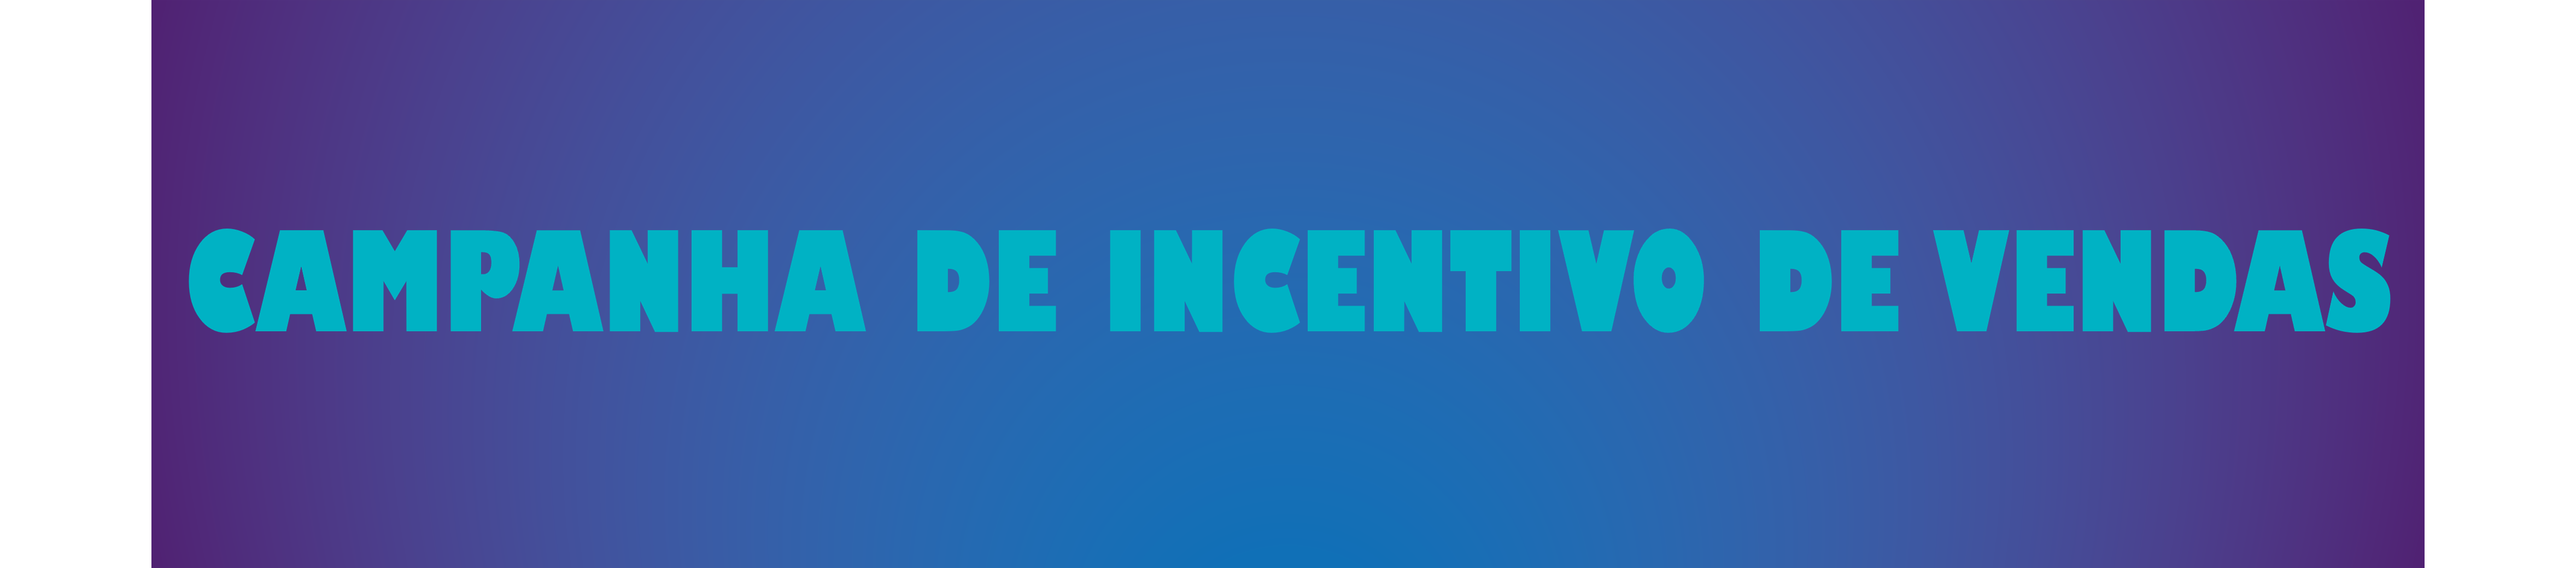
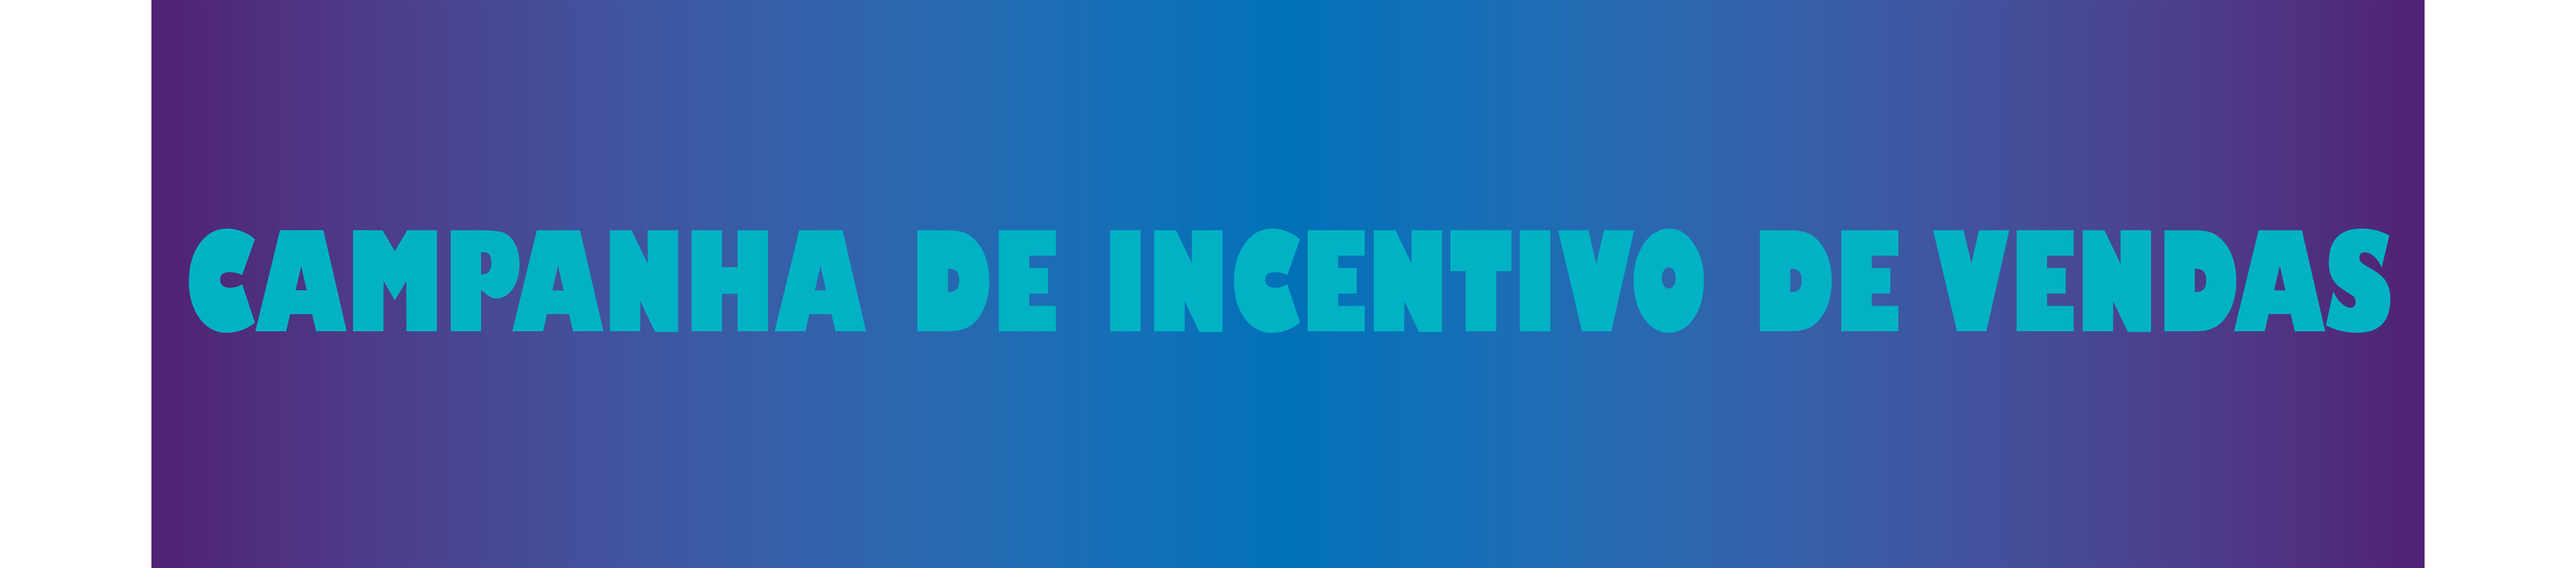
update

Changed region(s): [[0.3744, 0.0, 0.6239, 0.77]]

diff --git a/app.py b/app.py
@@ -23,8 +23,8 @@ st.title("Campanha de Incentivos 2025")
 # banner
 st.markdown(
     """
-    <div style="background-color:#0071b8;padding:10px;text-align:center">
-        <img src="./image/banner.png" style="width:100%;height:auto;">
+    <div style="background-color:#502172;text-align:center">
+        <img src="https://raw.githubusercontent.com/stefaninilucas/dashboard/refs/heads/branch1/image/banner.png" style="width:100%;height:auto;">
     </div>
     """,
     unsafe_allow_html=True
